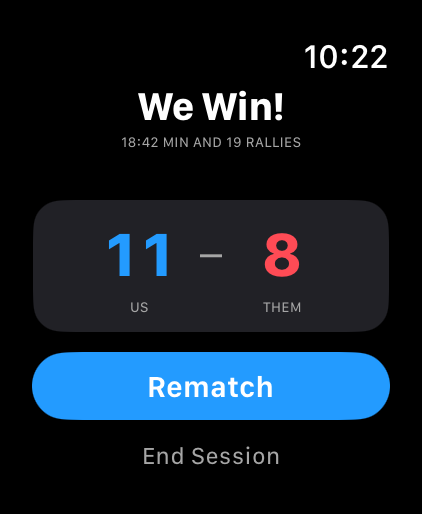
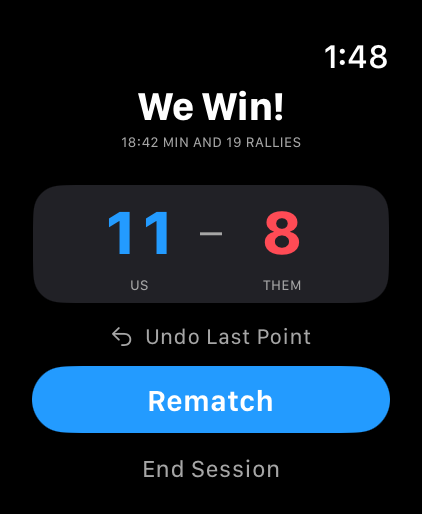
Document final-shot stats, player attribution and rally undo

diff --git a/index.html b/index.html
@@ -1,17 +1,17 @@
-<!doctype html><html lang="en"><head><meta charset="utf-8"><meta name="viewport" content="width=device-width,initial-scale=1"><meta name="description" content="Learn Pickled for Apple Watch and iPhone: swipe scoring, rally stats, rematches, workout tracking and TestFlight feedback."><title>Pickled · The tester guide</title><link rel="icon" href="assets/pickled-logo.png"><link rel="stylesheet" href="styles.css?v=20261005-3"></head><body><a class="skip" href="#guide">Skip to guide</a><header><div class="bar"><a class="brand" href="#top"><img src="assets/pickled-logo.png" alt="" width="36" height="36">Pickled <span class="tag">Field guide</span></a><a href="https://tally.so/r/QK6rl8">Send feedback ↗</a></div></header>
-<div class="hero" id="top"><div><div class="eyebrow">Apple Watch + iPhone · TestFlight beta</div><h1>A little less tapping.<br>A lot more playing.</h1><p>Your guide to scoring on the Watch, learning from your games, and helping make Pickled better.</p><a class="pill" href="#quick-start">Start here ↓</a><div class="meta">Updated October 5, 2026 · Reversed Undo/Redo gestures</div></div><figure class="watch"><a href="assets/watch-score.png" aria-label="Open full-size screenshot: Score on your Watch. Review the bigger picture on iPhone."><img src="assets/watch-score.png" alt="Score on your Watch. Review the bigger picture on iPhone." loading="lazy" width="422" height="514"></a><figcaption>Score on your Watch. Review the bigger picture on iPhone.</figcaption></figure></div>
+<!doctype html><html lang="en"><head><meta charset="utf-8"><meta name="viewport" content="width=device-width,initial-scale=1"><meta name="description" content="Learn Pickled for Apple Watch and iPhone: swipe scoring, rally stats, rematches, workout tracking and TestFlight feedback."><title>Pickled · The tester guide</title><link rel="icon" href="assets/pickled-logo.png"><link rel="stylesheet" href="styles.css?v=20261006-1"></head><body><a class="skip" href="#guide">Skip to guide</a><header><div class="bar"><a class="brand" href="#top"><img src="assets/pickled-logo.png" alt="" width="36" height="36">Pickled <span class="tag">Field guide</span></a><a href="https://tally.so/r/QK6rl8">Send feedback ↗</a></div></header>
+<div class="hero" id="top"><div><div class="eyebrow">Apple Watch + iPhone · TestFlight beta</div><h1>A little less tapping.<br>A lot more playing.</h1><p>Your guide to scoring on the Watch, learning from your games, and helping make Pickled better.</p><a class="pill" href="#quick-start">Start here ↓</a><div class="meta">Updated October 6, 2026 · Final-shot stats</div></div><figure class="watch"><a href="assets/watch-score.png" aria-label="Open full-size screenshot: Score on your Watch. Review the bigger picture on iPhone."><img src="assets/watch-score.png" alt="Score on your Watch. Review the bigger picture on iPhone." loading="lazy" width="422" height="514"></a><figcaption>Score on your Watch. Review the bigger picture on iPhone.</figcaption></figure></div>
 <div class="shell"><details class="contents" open><summary>In this guide</summary><nav aria-label="Guide sections"><a href="#quick-start">Your first game</a><a href="#install">Install & connect</a><small>On your Watch</small><a href="#court">Set the court</a><a href="#scoring">Score & undo</a><a href="#stats">Record rally stats</a><a href="#actions">Pause, fix & finish</a><a href="#workout">Timer & workout</a><small>On your iPhone</small><a href="#phone">Understand your stats</a><a href="#players">Players & partners</a><a href="#data">Settings, sync & export</a><small>During the beta</small><a href="#feedback">Send useful feedback</a><a href="#help">Common questions</a></nav></details><main id="guide">
-<section id="quick-start"><div class="eyebrow">01 / Ready to play</div><h2>Your first game, in a minute.</h2><ol><li>Open <strong>Pickled on your Watch</strong>. Pick a <strong>Play to</strong> score. Leave Timer off unless you want a time limit.</li><li>Choose whether to record <strong>stats</strong> and an <strong>Apple Health workout</strong> using the two small icons at the bottom. A green check means on.</li><li>Tap <strong>Start Game</strong>. Leave You and the guest players, or tap names to choose your group.</li><li>Swap teammates into position, then <strong>swipe toward the team serving first</strong>.</li><li>After each rally, <strong>swipe toward the winning team</strong>. If stats are on, swipe once more for how it ended.</li><li>At the end, choose <strong>Rematch</strong> to play again, or <strong>End Session</strong> when you are done.</li></ol><div class="callout"><p class="title">New muscle memory</p><p>On the score and result screens: <strong>swipe right to Undo</strong>, <strong>swipe left to Redo</strong>. This reverses build 43 and earlier. Stat choices have their own directions, shown below.</p></div></section>
+<section id="quick-start"><div class="eyebrow">01 / Ready to play</div><h2>Your first game, in a minute.</h2><ol><li>Open <strong>Pickled on your Watch</strong>. Pick a <strong>Play to</strong> score. Leave Timer off unless you want a time limit.</li><li>Choose whether to record <strong>stats</strong> and an <strong>Apple Health workout</strong> using the two small icons at the bottom. A green check means on.</li><li>Tap <strong>Start Game</strong>. Leave You and the guest players, or tap names to choose your group.</li><li>Swap teammates into position, then <strong>swipe toward the team serving first</strong>.</li><li>After each rally, <strong>swipe toward the winning team</strong>. If stats are on, swipe for the final shot, then tap its player when asked.</li><li>At the end, choose <strong>Rematch</strong> to play again, or <strong>End Session</strong> when you are done.</li></ol><div class="callout"><p class="title">New muscle memory</p><p>On the score and result screens: <strong>swipe right to Undo</strong>, <strong>swipe left to Redo</strong>. This reverses build 43 and earlier. Stat choices have their own directions, shown below.</p></div></section>
 <section id="install"><div class="eyebrow">02 / Before you head out</div><h2>Install both apps.</h2><p>Install Apple’s <a href="https://apps.apple.com/app/testflight/id899247664">TestFlight</a> on your iPhone, accept your Pickled invitation, and install the current build. Install its paired Watch app too; check the Watch app on your iPhone if it has not appeared on your Watch.</p><p>Open Pickled on both devices. Keep the iPhone and Watch versions up to date together so players and sessions can sync. The prototype requires <strong>iOS 17 or later and watchOS 10 or later</strong>.</p><p class="small">All screenshots in this guide are captured from the native apps in simulators with sample names and games. They are examples, not a tester’s personal history. Tap any screenshot to view it full size.</p></section>
-<section id="court"><div class="eyebrow">03 / Who’s playing?</div><h2>Set the court. Choose the server.</h2><p>You start at the bottom right. <strong>Player 2, Player 3 and Player 4</strong> are optional guests; you can start immediately without adding anyone to your saved list. For useful partner comparisons, choose saved players when you know who is playing.</p><p>Tap a name to open the player picker. Names are alphabetized, with initials to help you find people. Choosing someone already on the court <strong>swaps the two people</strong>—even across teams. You never need a temporary fifth player.</p><p>Use the small swap control <strong>between teammates</strong> to exchange their left/right positions. Swipe up or down toward the team that will serve first. The first server starts on that team’s right court. Tap <strong>X</strong> to cancel setup or close the picker.</p><div class="gallery"><figure class="watch"><a href="assets/watch-home.png" aria-label="Open full-size screenshot: Home: score target, optional timer, stats and workout toggles."><img src="assets/watch-home.png" alt="Home: score target, optional timer, stats and workout toggles." loading="lazy" width="422" height="514"></a><figcaption>Home: score target, optional timer, stats and workout toggles.</figcaption></figure><figure class="watch"><a href="assets/watch-court.png" aria-label="Open full-size screenshot: Court setup: tap names, swap teammates, then choose who serves."><img src="assets/watch-court.png" alt="Court setup: tap names, swap teammates, then choose who serves." loading="lazy" width="422" height="514"></a><figcaption>Court setup: tap names, swap teammates, then choose who serves.</figcaption></figure><figure class="watch"><a href="assets/watch-picker.png" aria-label="Open full-size screenshot: The player picker shows names, initials and players already selected."><img src="assets/watch-picker.png" alt="The player picker shows names, initials and players already selected." loading="lazy" width="422" height="514"></a><figcaption>The player picker shows names, initials and players already selected.</figcaption></figure></div></section>
-<section id="scoring"><div class="eyebrow">04 / During the rally</div><h2>Follow the team, not the number.</h2><p>The <span class="blue"><strong>blue team is US</strong></span> and the <span class="red"><strong>red team is THEM</strong></span>. Swipe toward the team’s row on the court when it wins a rally. In the normal layout, that is <strong>down for US</strong> and <strong>up for THEM</strong>. The serving player has a green indicator.</p><div class="gesture-grid"><div class="gesture"><span class="arrow">↑</span><b>Top team wins</b><p>Record the rally for the team shown above the score.</p></div><div class="gesture"><span class="arrow">↓</span><b>Bottom team wins</b><p>Record the rally for the team shown below the score.</p></div><div class="gesture"><span class="arrow">→</span><b>Undo</b><p>Swipe right. Back up exactly one score or stat action.</p></div><div class="gesture"><span class="arrow">←</span><b>Redo</b><p>Swipe left. Restore the action you most recently undid.</p></div></div><p>With <strong>side-out scoring</strong>, only the serving team scores a point. Still record every rally: losing a rally can change the server without changing the score. Doubles opens at <strong>0–0–2</strong>. The white third number is the first or second server, and the serving team’s score is displayed first. With <strong>rally scoring</strong>, every rally awards a point.</p><h3>One action per Undo or Redo</h3><p>Score a rally, record its stat, and return to scoring. One right swipe removes just the stat; the score and server stay put. Another right swipe removes the rally. Left restores the rally, then left again restores its stat. If you skipped the stat, Undo removes the rally immediately.</p><p>The revealed text tells you what will change, such as <strong>Undo stat</strong> or <strong>Redo rally</strong>. New scoring or a replacement stat clears the forward Redo history. Manual score/server/position corrections set a boundary so Undo cannot cross back through that correction.</p></section>
-<section id="stats"><div class="eyebrow">05 / Keep it quick</div><h2>One swipe for how it ended.</h2><div class="split"><div><p>Stats are optional. After recording a rally, use the colored choices on the stat screen. These directions stay fixed:</p><div class="table-wrap"><table><thead><tr><th>Swipe</th><th>Record</th><th>Use it for</th></tr></thead><tbody><tr><td>↑ Up</td><td class="purple">Serve / Return Error</td><td>The serve missed, or the receiving player failed to return the serve. Only the possible option is offered.</td></tr><tr><td>↓ Down</td><td class="yellow">Winner</td><td>A shot that wins the rally outright.</td></tr><tr><td>← Left</td><td class="red">Error</td><td>A missed shot that loses the rally. No Forced/Unforced decision.</td></tr><tr><td>→ Right</td><td class="orange">Pop-up</td><td>A ball left high that lets the other team put the rally away.</td></tr></tbody></table></div></div><figure class="watch"><a href="assets/watch-stats.png" aria-label="Open full-size screenshot: Stat directions: up Serve/Return Error, down Winner, left Error, right Pop-up."><img src="assets/watch-stats.png" alt="Stat directions: up Serve/Return Error, down Winner, left Error, right Pop-up." loading="lazy" width="422" height="514"></a><figcaption>Stat directions: up Serve/Return Error, down Winner, left Error, right Pop-up.</figcaption></figure></div><p><strong>No extra Net/Out question for serves.</strong> Pickled already knows the server and receiver from the positions before the rally. A Return Error also credits the server with an unreturned serve.</p><p><strong>Pop-up in doubles:</strong> the team stat saves first. On the follow-up screen, swipe toward or tap the player who popped it up. If you are unsure, tap the countdown or let it expire to keep only the team stat. Swipe up there to undo the Pop-up choice and return to the categories. Singles attribution is automatic.</p><p><strong>Too busy to record it?</strong> Tap the countdown to skip. The screen also closes automatically after 30 seconds; Pop-up attribution shares that same deadline. Your rally remains recorded. Doubles Winner and Error are team stats, not guesses about which player hit the ball.</p><div class="callout"><p class="title">Score first. Stats second.</p><p>Swipe left on the <strong>stat screen</strong> to record Error. Swipe left on the <strong>score screen</strong> to Redo. The labels and colors tell you which screen you are on.</p></div></section>
-<section id="actions"><div class="eyebrow">06 / Between games</div><h2>Fix a mistake. Play another.</h2><p><strong>Touch and hold the score or stat screen</strong> to open Actions. You can pause/resume, correct the score, change the server, fix teammate positions, end the game or end the session. You do not have to reach the target to quit.</p><ul><li><strong>End Game</strong> saves the partial game and keeps the session/workout running. Manually ended games remain in history but are excluded from partner and duration comparisons.</li><li><strong>Rematch</strong> keeps the same teams and ending positions. Use the court screen to swap teammates and choose the next first server. Best-of-three play is a series of rematches; there is no separate series tally yet.</li><li><strong>End Session</strong> finishes the session and saves its workout, if enabled. Review the summary and tap Done.</li></ul><p>Undo/Redo also works from the result screen. For a timed-out game you can correct its last stat, but Undo does not restart an expired clock. A qualifying shutout shows the pickle illustration; swipe up to see the result controls.</p><div class="gallery"><figure class="watch"><a href="assets/watch-actions.png" aria-label="Open full-size screenshot: Hold to open Actions, including End Game and End Session."><img src="assets/watch-actions.png" alt="Hold to open Actions, including End Game and End Session." loading="lazy" width="422" height="514"></a><figcaption>Hold to open Actions, including End Game and End Session.</figcaption></figure><figure class="watch"><a href="assets/watch-finish.png" aria-label="Open full-size screenshot: Rematch uses the same group and opens court setup again."><img src="assets/watch-finish.png" alt="Rematch uses the same group and opens court setup again." loading="lazy" width="422" height="514"></a><figcaption>Rematch uses the same group and opens court setup again.</figcaption></figure><figure class="watch"><a href="assets/watch-session.png" aria-label="Open full-size screenshot: Session Complete: review play time and the workout status, then Done."><img src="assets/watch-session.png" alt="Session Complete: review play time and the workout status, then Done." loading="lazy" width="422" height="514"></a><figcaption>Session Complete: review play time and the workout status, then Done.</figcaption></figure></div></section>
+<section id="court"><div class="eyebrow">03 / Who’s playing?</div><h2>Set the court. Choose the server.</h2><p>You start at the bottom right. <strong>Player 2, Player 3 and Player 4</strong> are optional guests; you can start immediately without adding anyone to your saved list. For useful partner comparisons, choose saved players when you know who is playing.</p><p>Tap a name to open the player picker. Missing someone? Tap <strong>Add Player</strong>, enter their name, and choose <strong>Add &amp; Use</strong>. They are saved on your Watch and sync to iPhone. Names are alphabetized, with initials to help you find people. Choosing someone already on the court <strong>swaps the two people</strong>—even across teams. You never need a temporary fifth player.</p><p>Use the small swap control <strong>between teammates</strong> to exchange their left/right positions. Swipe up or down toward the team that will serve first. The first server starts on that team’s right court. Tap <strong>X</strong> to cancel setup or close the picker.</p><div class="gallery"><figure class="watch"><a href="assets/watch-home.png" aria-label="Open full-size screenshot: Home: score target, optional timer, stats and workout toggles."><img src="assets/watch-home.png" alt="Home: score target, optional timer, stats and workout toggles." loading="lazy" width="422" height="514"></a><figcaption>Home: score target, optional timer, stats and workout toggles.</figcaption></figure><figure class="watch"><a href="assets/watch-court.png" aria-label="Open full-size screenshot: Court setup: tap names, swap teammates, then choose who serves."><img src="assets/watch-court.png" alt="Court setup: tap names, swap teammates, then choose who serves." loading="lazy" width="422" height="514"></a><figcaption>Court setup: tap names, swap teammates, then choose who serves.</figcaption></figure><figure class="watch"><a href="assets/watch-picker.png?v=20261006" aria-label="Open full-size screenshot: The player picker shows names, initials and players already selected."><img src="assets/watch-picker.png?v=20261006" alt="The player picker shows names, initials and players already selected." loading="lazy" width="422" height="514"></a><figcaption>The player picker shows names, initials and players already selected.</figcaption></figure></div></section>
+<section id="scoring"><div class="eyebrow">04 / During the rally</div><h2>Follow the team, not the number.</h2><p>The <span class="blue"><strong>blue team is US</strong></span> and the <span class="red"><strong>red team is THEM</strong></span>. Swipe toward the team’s row on the court when it wins a rally. In the normal layout, that is <strong>down for US</strong> and <strong>up for THEM</strong>. The serving player has a green indicator.</p><div class="gesture-grid"><div class="gesture"><span class="arrow">↑</span><b>Top team wins</b><p>Record the rally for the team shown above the score.</p></div><div class="gesture"><span class="arrow">↓</span><b>Bottom team wins</b><p>Record the rally for the team shown below the score.</p></div><div class="gesture"><span class="arrow">→</span><b>Undo</b><p>Swipe right. Remove the rally and its stat together.</p></div><div class="gesture"><span class="arrow">←</span><b>Redo</b><p>Swipe left. Restore the rally and its stat together.</p></div></div><p>With <strong>side-out scoring</strong>, only the serving team scores a point. Still record every rally: losing a rally can change the server without changing the score. Doubles opens at <strong>0–0–2</strong>. The white third number is the first or second server, and the serving team’s score is displayed first. With <strong>rally scoring</strong>, every rally awards a point.</p><h3>One rally per Undo or Redo</h3><p>Score a rally, record its stat, and return to scoring. One right swipe removes both the rally and its stat, restoring the previous score, player positions and server. One left swipe restores both together. If you skipped the stat, Undo still removes that rally in one swipe.</p><p>The revealed text tells you what will change, such as <strong>Undo rally</strong> or <strong>Redo rally</strong>. New scoring or a replacement stat clears the forward Redo history. Manual score/server/position corrections set a boundary so Undo cannot cross back through that correction.</p></section>
+<section id="stats"><div class="eyebrow">05 / Keep it quick</div><h2>Score. Outcome. Player.</h2><p>Record <strong>only the rally-ending event</strong>. You do not need to judge whether an error was forced, or remember the shot that set up the finish. Stats are optional.</p><div class="split"><div><div class="table-wrap"><table><thead><tr><th>Swipe</th><th>Record</th><th>Use it for</th></tr></thead><tbody><tr><td>↑ Up</td><td class="purple">Serve fault / Return missed</td><td>The serve was not in, or the receiving player did not return it successfully. Pickled offers the possible option and attributes it automatically.</td></tr><tr><td>↓ Down</td><td class="yellow">Winner</td><td>A legal winning shot with no opponent paddle contact. Tap its hitter on the winning team.</td></tr><tr><td>← Left</td><td class="red">Net</td><td>The final attempted shot fails to clear the net and ends the rally. Tap its hitter on the losing team.</td></tr><tr><td>→ Right</td><td class="orange">Out</td><td>The final shot lands outside the court and ends the rally. Tap its hitter on the losing team.</td></tr></tbody></table></div></div><figure class="watch"><a href="assets/watch-stats.png?v=20261006"><img src="assets/watch-stats.png?v=20261006" alt="Swipe up Serve fault or Return missed, down Winner, left Net, right Out." loading="lazy" width="422" height="514"></a><figcaption>Outcome directions stay fixed. The upper option changes with the server and rally result.</figcaption></figure></div><h3>Tap who hit the final shot</h3><p>All four equally sized tiles stay in the positions they occupied <strong>before the rally was scored</strong>. Winner highlights the winning team. Net or Out highlights the losing team. The other team stays visible but cannot be selected. Initials use first and last names when available; one name uses one initial.</p><div class="gallery two"><figure class="watch"><a href="assets/watch-player-winner.png?v=20261006"><img src="assets/watch-player-winner.png?v=20261006" alt="Winner player selection: the winning team is eligible, with equal-sized player tiles." loading="lazy" width="422" height="514"></a><figcaption>Winner → tap one of the two players on the winning team.</figcaption></figure><figure class="watch"><a href="assets/watch-player-out.png?v=20261006"><img src="assets/watch-player-out.png?v=20261006" alt="Out player selection: only the losing team is eligible." loading="lazy" width="422" height="514"></a><figcaption>Net or Out → tap one of the two players on the losing team.</figcaption></figure></div><p><strong>Serve and return shortcut:</strong> if it ended on the serve or attempted return, swipe up instead of Net, Out or Winner. Pickled uses that rally’s server and receiver, so there is no player or Net/Out follow-up. Return missed credits the receiver’s missed return and the server’s unreturned serve. It does not call every unreturned serve an ace.</p><p><strong>Example:</strong> you hit a pop-up, then Jesse hits a smash nobody touches. Record <strong>Winner → Jesse</strong>. If you touch that smash and hit the ball into the net, record <strong>Net → You</strong>. Do not record the earlier pop-up.</p><p><strong>Need to change the outcome?</strong> Use the back control on player selection to return to outcomes without changing the point. The 30-second countdown covers both screens. Tap it to skip: skipping the first screen leaves the rally unclassified; skipping player selection keeps the outcome for the team without guessing a person. Singles attribution is automatic.</p><div class="callout"><p class="title">Keep the record honest</p><p>Not sure, a rules fault, or an unusual ending? Skip the stat and keep the score. Pickled does not guess a category. Left on the stat screen records Net; left on the score screen is Redo.</p></div></section>
+<section id="actions"><div class="eyebrow">06 / Between games</div><h2>Fix a mistake. Play another.</h2><p><strong>Touch and hold the score or stat screen</strong> to open Actions. You can pause/resume, correct the score, change the server, fix teammate positions, end the game or end the session. You do not have to reach the target to quit.</p><ul><li><strong>End Game</strong> saves the partial game and keeps the session/workout running. Manually ended games remain in history but are excluded from partner and duration comparisons.</li><li><strong>Rematch</strong> keeps the same teams and ending positions. Use the court screen to swap teammates and choose the next first server. Best-of-three play is a series of rematches; there is no separate series tally yet.</li><li><strong>End Session</strong> finishes the session and saves its workout, if enabled. Review the summary and tap Done.</li></ul><p>Accidentally entered the winning point? Tap <strong>Undo Last Point</strong> on results, or swipe right, to return to the prior score, court and server. Undo/Redo also works from the result screen. For a timed-out game you can correct its last stat, but Undo does not restart an expired clock. A qualifying shutout shows the pickle illustration; swipe up to see the result controls.</p><div class="gallery"><figure class="watch"><a href="assets/watch-actions.png" aria-label="Open full-size screenshot: Hold to open Actions, including End Game and End Session."><img src="assets/watch-actions.png" alt="Hold to open Actions, including End Game and End Session." loading="lazy" width="422" height="514"></a><figcaption>Hold to open Actions, including End Game and End Session.</figcaption></figure><figure class="watch"><a href="assets/watch-finish.png?v=20261006" aria-label="Open full-size screenshot: Rematch uses the same group and opens court setup again."><img src="assets/watch-finish.png?v=20261006" alt="Rematch uses the same group and opens court setup again." loading="lazy" width="422" height="514"></a><figcaption>Rematch uses the same group and opens court setup again.</figcaption></figure><figure class="watch"><a href="assets/watch-session.png" aria-label="Open full-size screenshot: Session Complete: review play time and the workout status, then Done."><img src="assets/watch-session.png" alt="Session Complete: review play time and the workout status, then Done." loading="lazy" width="422" height="514"></a><figcaption>Session Complete: review play time and the workout status, then Done.</figcaption></figure></div></section>
 <section id="workout"><div class="eyebrow">07 / On your terms</div><h2>Time limits and Apple Health.</h2><h3>Play to a score, or add a time limit</h3><p>Home has presets and <strong>Custom</strong> options: Play to from 1–99, Timer from 1–180 minutes or Off. An untimed game requires the target and a two-point lead. A timed game ends at <strong>the selected score cap or time expiry, whichever comes first</strong>; it does not go above that cap.</p><p>The countdown appears above the score in yellow and turns red in the final 30 seconds. Timer sounds warn near 30 seconds, during the last ten seconds and at expiry, subject to Watch feedback settings. It keeps counting while you enter stats or open Actions; choose Pause Game to pause it.</p><h3>One workout for your whole session</h3><p>Turn on the heart icon before starting, and allow the requested Apple Health permissions. Pickled records one pickleball workout across your games and rematches, with duration and available heart rate and active calories. <strong>End Session</strong> saves it. If the summary reports a saving problem, inspect the workout status before leaving.</p><p>With tracking off, scores and game length still work, but no Health workout is recorded. The Watch may return to the clock depending on its settings; reopen Pickled to resume. Workout tracking does not promise a permanently lit screen.</p></section>
-<section id="phone"><div class="eyebrow">08 / The bigger picture</div><h2>Find patterns on your iPhone.</h2><p>Your Watch handles the game. Your iPhone brings the history together in <strong>Stats, Sessions, Players, Improve and Settings</strong>.</p><div class="gallery two"><figure class="phone"><a href="assets/phone-stats.png" aria-label="Open full-size screenshot: Stats: filter your record by year and game format."><img src="assets/phone-stats.png" alt="Stats: filter your record by year and game format." loading="lazy" width="1206" height="2622"></a><figcaption>Stats: filter your record by year and game format.</figcaption></figure><figure class="phone"><a href="assets/phone-improve.png" aria-label="Open full-size screenshot: Improve: serve outcomes and costly pop-ups, based on recorded stats."><img src="assets/phone-improve.png" alt="Improve: serve outcomes and costly pop-ups, based on recorded stats." loading="lazy" width="1206" height="2622"></a><figcaption>Improve: serve outcomes and costly pop-ups, based on recorded stats.</figcaption></figure></div><h3>Stats: who do you play well with?</h3><p>Use <strong>All Time or a year</strong> and the format filter for comparable results. Best-partner records combine wins, losses, games together and duration. A recommendation needs at least five games together and a comparable format. Use those records as context, not a guaranteed tournament prediction.</p><h3>Improve: what should you practice?</h3><p>Serve insights show faults, unreturned serves and rallies won while serving. Fault/unreturned percentages use <strong>classified serves</strong>; skipped or unknown outcomes are shown separately. Pop-up insights count recorded costly pop-ups, not every high ball you hit. In doubles, personal Pop-up stats require the optional player selection.</p><h3>Sessions: what happened in that game?</h3><p>Open a session, then a game for its score, players, automatic elapsed time and rally history. Game duration starts when play starts and ends when the game ends. It includes pauses and time between rallies, independently of the timer, stats and workout toggles.</p><div class="gallery two"><figure class="phone"><a href="assets/phone-sessions.png" aria-label="Open full-size screenshot: Sessions: open a saved session to review its games."><img src="assets/phone-sessions.png" alt="Sessions: open a saved session to review its games." loading="lazy" width="1206" height="2622"></a><figcaption>Sessions: open a saved session to review its games.</figcaption></figure><figure class="phone"><a href="assets/phone-game.png" aria-label="Open full-size screenshot: Game detail: score, format, players and rally history."><img src="assets/phone-game.png" alt="Game detail: score, format, players and rally history." loading="lazy" width="1206" height="2622"></a><figcaption>Game detail: score, format, players and rally history.</figcaption></figure></div><div class="callout"><p class="title">Duration is not a shot count</p><p>Pickled does not measure shots per rally. A longer game can mean more play, more waiting, or both. Partner/group duration comparisons describe past game length; they do not establish skill or intensity.</p></div></section>
+<section id="phone"><div class="eyebrow">08 / The bigger picture</div><h2>Find patterns on your iPhone.</h2><p>Your Watch handles the game. Your iPhone brings the history together in <strong>Stats, Sessions, Players, Improve and Settings</strong>.</p><div class="gallery two"><figure class="phone"><a href="assets/phone-stats.png" aria-label="Open full-size screenshot: Stats: filter your record by year and game format."><img src="assets/phone-stats.png" alt="Stats: filter your record by year and game format." loading="lazy" width="1206" height="2622"></a><figcaption>Stats: filter your record by year and game format.</figcaption></figure><figure class="phone"><a href="assets/phone-improve.png?v=20261006" aria-label="Open full-size screenshot: Improve: serve outcomes and attributed final shots, based on recorded stats."><img src="assets/phone-improve.png?v=20261006" alt="Improve: serve outcomes and attributed final shots, based on recorded stats." loading="lazy" width="1206" height="2622"></a><figcaption>Improve: serve outcomes and attributed final shots, based on recorded stats.</figcaption></figure></div><h3>Stats: who do you play well with?</h3><p>Use <strong>All Time or a year</strong> and the format filter for comparable results. Best-partner records combine wins, losses, games together and duration. A recommendation needs at least five games together and a comparable format. Use those records as context, not a guaranteed tournament prediction.</p><h3>Improve: what should you practice?</h3><p>Serve insights show faults, unreturned serves and rallies won while serving. Fault/unreturned percentages use <strong>classified serves</strong>; skipped or unknown outcomes are shown separately. Final-shot visuals show attributed Winner, Net and Out counts. Team-only outcomes and skipped rallies remain visible as missing coverage. These counts are not shot accuracy: Pickled does not record every shot. Old generic errors and pop-ups are not converted to Net or Out.</p><h3>Sessions: what happened in that game?</h3><p>Open a session, then a game for its score, players, automatic elapsed time and rally history. Game duration starts when play starts and ends when the game ends. It includes pauses and time between rallies, independently of the timer, stats and workout toggles.</p><div class="gallery two"><figure class="phone"><a href="assets/phone-sessions.png" aria-label="Open full-size screenshot: Sessions: open a saved session to review its games."><img src="assets/phone-sessions.png" alt="Sessions: open a saved session to review its games." loading="lazy" width="1206" height="2622"></a><figcaption>Sessions: open a saved session to review its games.</figcaption></figure><figure class="phone"><a href="assets/phone-game.png" aria-label="Open full-size screenshot: Game detail: score, format, players and rally history."><img src="assets/phone-game.png" alt="Game detail: score, format, players and rally history." loading="lazy" width="1206" height="2622"></a><figcaption>Game detail: score, format, players and rally history.</figcaption></figure></div><div class="callout"><p class="title">Duration is not a shot count</p><p>Pickled does not measure shots per rally. A longer game can mean more play, more waiting, or both. Partner/group duration comparisons describe past game length; they do not establish skill or intensity.</p></div></section>
 <section id="players"><div class="eyebrow">09 / Your regular group</div><h2>Save players once. Find them on Watch.</h2><div><p>In <strong>Players</strong>, tap Add Player and enter the person’s name. Open their profile for <strong>With / Against</strong> views, records and charts. Use the group comparison in Stats to review games involving a selected group.</p><p>You do not need to create yourself: new games already include <strong>You</strong>. If you replace You with your saved name during setup, Pickled follows that identity through the game, including team swaps.</p><p>To rename or delete a player, open their profile and choose <strong>Edit</strong>. Deletion removes them from the saved-player lists after sync, while keeping their past games and statistics intact. You can also swipe a player row to delete.</p><p>Open both apps after adding a player so the Watch can receive the update. A player already in the current court can be chosen to swap two people directly.</p></div><div class="gallery two"><figure class="phone"><a href="assets/phone-players.png" aria-label="Open full-size screenshot: Players: full names and initial avatars."><img src="assets/phone-players.png" alt="Players: full names and initial avatars." loading="lazy" width="1206" height="2622"></a><figcaption>Players: full names and initial avatars.</figcaption></figure><figure class="phone"><a href="assets/phone-player.png" aria-label="Open full-size player profile screenshot"><img src="assets/phone-player.png" alt="Riley Chen’s sample player profile with With and Against views and game length." loading="lazy" width="1206" height="2622"></a><figcaption>Player profile: compare With / Against results and game length.</figcaption></figure></div></section>
 <section id="data"><div class="eyebrow">10 / Make it yours</div><h2>Settings, sync and your data.</h2><ul><li><strong>How to Play:</strong> reopen this guide from the Support Pickled section.</li><li><strong>Appearance:</strong> follow System or choose Light/Dark on iPhone. The Watch stays dark.</li><li><strong>Match defaults:</strong> configure your usual options and tap Send defaults to Watch. They apply to the next setup, not a game already in progress.</li><li><strong>Sync:</strong> in Devices &amp; data, request a sync with both apps open and devices nearby. Transfers can wait while a device is offline.</li><li><strong>Export:</strong> Settings → Export Data → Export CSV Files. Export sessions, games, rallies and players. It includes all data saved on that phone, not just the current filter. Sync first for your latest Watch games.</li><li><strong>Clear test data:</strong> Settings → Clear All Data, then confirm. It clears Pickled data on both paired devices, including games and players. An offline device clears when it reconnects. Already exported files and workouts saved in Apple Health remain.</li></ul><p>Game data is stored locally and transferred between the paired iPhone and Watch. iCloud sync is not enabled in this beta. Keep an export if you need an independent copy of your history.</p></section>
 <section id="feedback"><div class="eyebrow">11 / Help shape Pickled</div><h2>Something feel off? Tell Chuck.</h2><div class="split"><div><h3>TestFlight feedback</h3><p>On iPhone, open <strong>TestFlight → Pickled → Send Beta Feedback</strong>. Add a screenshot if useful, describe what happened, and submit. For a Watch problem, describe the Watch screen and attach a Watch screenshot or photo from your iPhone.</p><p>This reaches the developer in App Store Connect. It is beta feedback, not a public App Store review. See <a href="https://testflight.apple.com/">Apple’s TestFlight instructions</a>.</p><h3>Send feedback online</h3><p>Use the <a href="https://tally.so/r/QK6rl8">Pickled feedback form</a> for a bug, suggestion or question. No sign-in is needed. Screenshots, your device and app version, and an email address for a reply are optional. Chuck receives your submission privately through Tally. Game and Health records are never attached automatically.</p></div><figure class="phone"><a href="assets/phone-support.png" aria-label="Open full-size screenshot: Settings includes How to Play, Send Feedback and Chuck’s welcome note."><img src="assets/phone-support.png" alt="Settings includes How to Play, Send Feedback and Chuck’s welcome note." loading="lazy" width="1206" height="2622"></a><figcaption>Settings includes How to Play, Send Feedback and Chuck’s welcome note.</figcaption></figure></div><div class="feedback-box"><h3>The most helpful bug report</h3><ol><li><strong>What you were doing:</strong> “Second rematch, doubles, side-out scoring, timer off, stats on.”</li><li><strong>What you expected and what happened:</strong> include swipe direction and which screen you were on.</li><li><strong>Device and build:</strong> Watch model, iPhone model and Pickled version/build from Settings or TestFlight.</li><li><strong>A screenshot or short recording:</strong> if practical. Tell us whether it happens every time and how you recovered.</li></ol><p>Suggestions are welcome too—especially where the app slows you down between rallies. Never interrupt play just to file a report; send it afterward.</p></div></section>
-<section id="help" class="faq"><div class="eyebrow">12 / Quick answers</div><h2>When something isn’t obvious.</h2><details><summary>I won the rally. Why didn’t the score go up?</summary><p>With side-out scoring, only the serving team scores. A receiving-team win changes the serve. Keep recording every rally so Pickled tracks the server correctly.</p></details><details><summary>I chose the wrong stat. Do I have to undo the point?</summary><p>No. Back on scoring, swipe right once to remove the stat only. Another right swipe removes the rally. Swipe left to restore the step you just undid. You can also leave that rally unclassified and keep playing.</p></details><details><summary>How do I stop before reaching the target?</summary><p>Hold the scoring or stat screen for Actions. Choose End Game to save a partial game and continue the session, or End Session to finish everything. During court/player setup, use X or hold to cancel.</p></details><details><summary>Why isn’t my new player on the Watch?</summary><p>Update both apps, open them on nearby paired devices, and request sync from iPhone Settings. Transfers can be delayed while devices are disconnected. If it persists, send the two app versions and a screenshot.</p></details><details><summary>Why are some stats missing?</summary><p>Stats must be on and a category must be recorded. Skipping preserves the rally but leaves its outcome unclassified. Doubles Winner/Error are team-only; personal Pop-up stats need a selected player. Older games may have less detail or an unknown personal identity.</p></details><details><summary>Can I see the old detailed categories?</summary><p>Older Forced, Unforced, Bodybag and Other events stay in historical data and exports. New entries and current charts use Winner, Error, Pop-up, Serve Error and Return Error.</p></details><details><summary>Should I clear all data when installing an update?</summary><p>No. Updates preserve your history. Clear All Data is only for when you intentionally want to reset testing records on both devices. It does not erase workouts already saved to Apple Health.</p></details></section>
+<section id="help" class="faq"><div class="eyebrow">12 / Quick answers</div><h2>When something isn’t obvious.</h2><details><summary>I won the rally. Why didn’t the score go up?</summary><p>With side-out scoring, only the serving team scores. A receiving-team win changes the serve. Keep recording every rally so Pickled tracks the server correctly.</p></details><details><summary>I chose the wrong stat. Do I have to undo the point?</summary><p>While selecting a player, tap the back control to change the outcome and keep the point. Once back on scoring, Undo removes the entire rally and its stat together. Score the rally again to enter a replacement stat; Redo restores the original rally and stat.</p></details><details><summary>How do I stop before reaching the target?</summary><p>Hold the scoring or stat screen for Actions. Choose End Game to save a partial game and continue the session, or End Session to finish everything. During court/player setup, use X or hold to cancel.</p></details><details><summary>Why isn’t my new player on the Watch?</summary><p>Update both apps, open them on nearby paired devices, and request sync from iPhone Settings. Transfers can be delayed while devices are disconnected. You can also tap Add Player directly in the Watch picker. If syncing still fails, send the two app versions and a screenshot.</p></details><details><summary>Why are some stats missing?</summary><p>Stats must be on and a category must be recorded. Skipping preserves the rally but leaves its outcome unclassified. Doubles Winner/Net/Out need a selected player for personal stats; skipped player selection remains team-only. Older games may have less detail or an unknown personal identity.</p></details><details><summary>Can I see the old detailed categories?</summary><p>Older Error, Pop-up, Forced, Unforced, Bodybag and Other events stay in historical data and exports. Current entry uses Winner, Net, Out, Serve fault and Return missed; historical categories are never relabeled.</p></details><details><summary>Should I clear all data when installing an update?</summary><p>No. Updates preserve your history. Clear All Data is only for when you intentionally want to reset testing records on both devices. It does not erase workouts already saved to Apple Health.</p></details></section>
 </main></div><footer class="footer">Made and maintained by Chuck. See you on the court.<br><a href="#top">Back to top ↑</a><a href="https://tally.so/r/QK6rl8">Send feedback</a><a href="https://testflight.apple.com/">About TestFlight</a></footer>
 </body></html>
